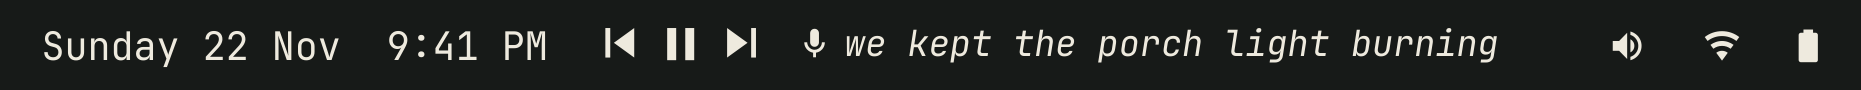
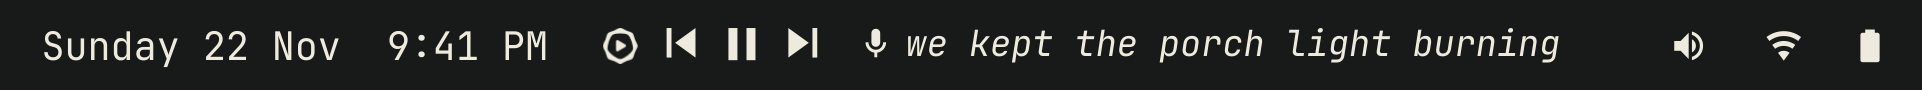
Harness: bar-closed and panel-unliked captures; re-render all
Claude-Session: https://claude.ai/code/session_01WDfsiKyRhJNr2NX5P2Fza4

diff --git a/dev/Harness.qml b/dev/Harness.qml
@@ -12,11 +12,13 @@ import "canto" as W
 //
 // MODE (env):
 //   preview          floating window with the pills and the popup, to play with
-//   bar              controls + Title · Artist (title mode)        -> $OUT (png)
+//   bar              Canto icon, controls, Title · Artist          -> $OUT (png)
+//   bar-closed       Canto closed: the dimmed icon alone           -> $OUT (png)
 //   bar-lyric        lyric mode, a line that fits                  -> $OUT (png)
 //   bar-lyric-page1  lyric mode, a long line: its first page       -> $OUT (png)
 //   bar-lyric-page2  lyric mode, the same line: its second page    -> $OUT (png)
-//   panel            the popup: cover, three lyric lines, controls -> $OUT (png)
+//   panel            the popup: mini player, liked, three lines    -> $OUT (png)
+//   panel-unliked    the popup: not liked, a short line            -> $OUT (png)
 //   panel-hint       the popup with Visual Bridge off              -> $OUT (png)
 ShellRoot {
   id: shell
@@ -83,13 +85,14 @@ ShellRoot {
     property bool bridgeOn: true
     property string mode: "title"
     property string frameFile: "state.json"
+    property bool running: true
     // A page other than the first, for the paging captures.
     property int page: 0
     width: barRow.implicitWidth + Style.space(28)
     height: Style.bar.sizeHorizontal
     color: Commons.Color.bar.background
 
-    MockCanto { id: mock; bridgeOn: strip.bridgeOn; frameFile: strip.frameFile }
+    MockCanto { id: mock; bridgeOn: strip.bridgeOn; frameFile: strip.frameFile; running: strip.running }
 
     Row {
       id: barRow
@@ -136,8 +139,9 @@ ShellRoot {
   Component {
     id: barScene
     BarStrip {
-      bridgeOn: shell.mode !== "bar"
-      mode: shell.mode === "bar" ? "title" : "lyric"
+      bridgeOn: shell.mode !== "bar" && shell.mode !== "bar-closed"
+      running: shell.mode !== "bar-closed"
+      mode: shell.mode === "bar" || shell.mode === "bar-closed" ? "title" : "lyric"
       frameFile: shell.mode === "bar-lyric" ? "state-short.json" : "state.json"
       page: shell.mode === "bar-lyric-page2" ? 1 : 0
     }
@@ -147,6 +151,7 @@ ShellRoot {
   component PopupFrame: Rectangle {
     id: frame
     property bool bridgeOn: true
+    property string frameFile: "state.json"
     readonly property int pad: Style.spacing.popupPadding
     width: view.implicitWidth + pad * 2
     height: view.implicitHeight + pad * 2
@@ -155,7 +160,7 @@ ShellRoot {
     border.color: Commons.Color.popups.border
     radius: Style.cornerRadius
 
-    MockCanto { id: popupMock; bridgeOn: frame.bridgeOn }
+    MockCanto { id: popupMock; bridgeOn: frame.bridgeOn; frameFile: frame.frameFile }
 
     W.NowPlayingView {
       id: view
@@ -166,13 +171,17 @@ ShellRoot {
       source: popupMock
       tr: popupMock.tr
       foreground: Commons.Color.popups.text
+      background: Commons.Color.popups.background
       animate: false
     }
   }
 
   Component {
     id: panelScene
-    PopupFrame { bridgeOn: shell.mode !== "panel-hint" }
+    PopupFrame {
+      bridgeOn: shell.mode !== "panel-hint"
+      frameFile: shell.mode === "panel-unliked" ? "state-short.json" : "state.json"
+    }
   }
 
   Component {
